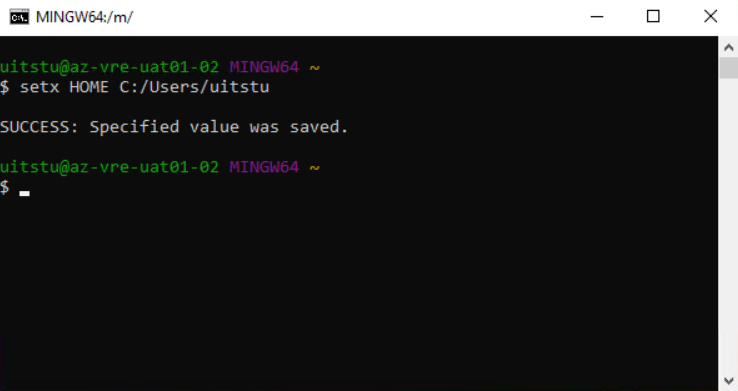
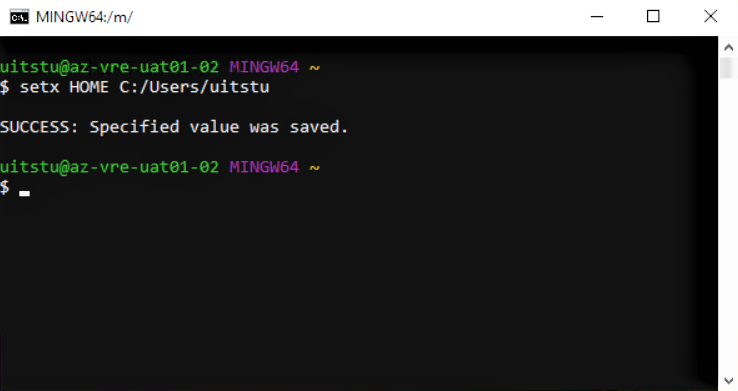
Update git_setup image sizing and clarity

diff --git a/git_setup.md b/git_setup.md
@@ -19,13 +19,11 @@ Run the following command, replacing `<username>` with your UoL username:<br>
 
 You should see a message confirming you successfully changed the home directory.
 
-![](./images/git_setup/02_set_home_path.PNG)
-{: .mx-auto }
+![](./images/git_setup/02_set_home_path.PNG){:width="40%" .mx-auto}
 
 Now close and reopen Git Bash to refresh your settings. It should reopen to your new home directory. You can check using `pwd`.
 
-![](./images/git_setup/03_check_home_path.PNG)
-{: .mx-auto }
+![](./images/git_setup/03_check_home_path.PNG){:width="40%" .mx-auto}
 
 When you make changes to your user configurations, they will be saved to your new home directory.
 
@@ -39,12 +37,10 @@ Run the following commands in Git Bash:
 
 This will create a file called .gitconfig in your home directory, or add to the file if it already exists. From your home directory in Git Bash, check the contents of .gitconfig using `cat .gitconfig`.
 
-![](./images/git_setup/04_set_user_config.PNG)
-{: .mx-auto }
+![](./images/git_setup/04_set_user_config.PNG){:width="40%" .mx-auto}
 
 ## Using Git
 
 You can then use Git as you would normally on another machine. **We strongly recommend you always store your Git repositories and all other files in your project shared storage (`N:\`).** Navigate to your shared storage and initialise a Git repository like so:
 
-![](./images/git_setup/05_git_init.PNG)
-{: .mx-auto }
+![](./images/git_setup/05_git_init.PNG){:width="40%" .mx-auto}
